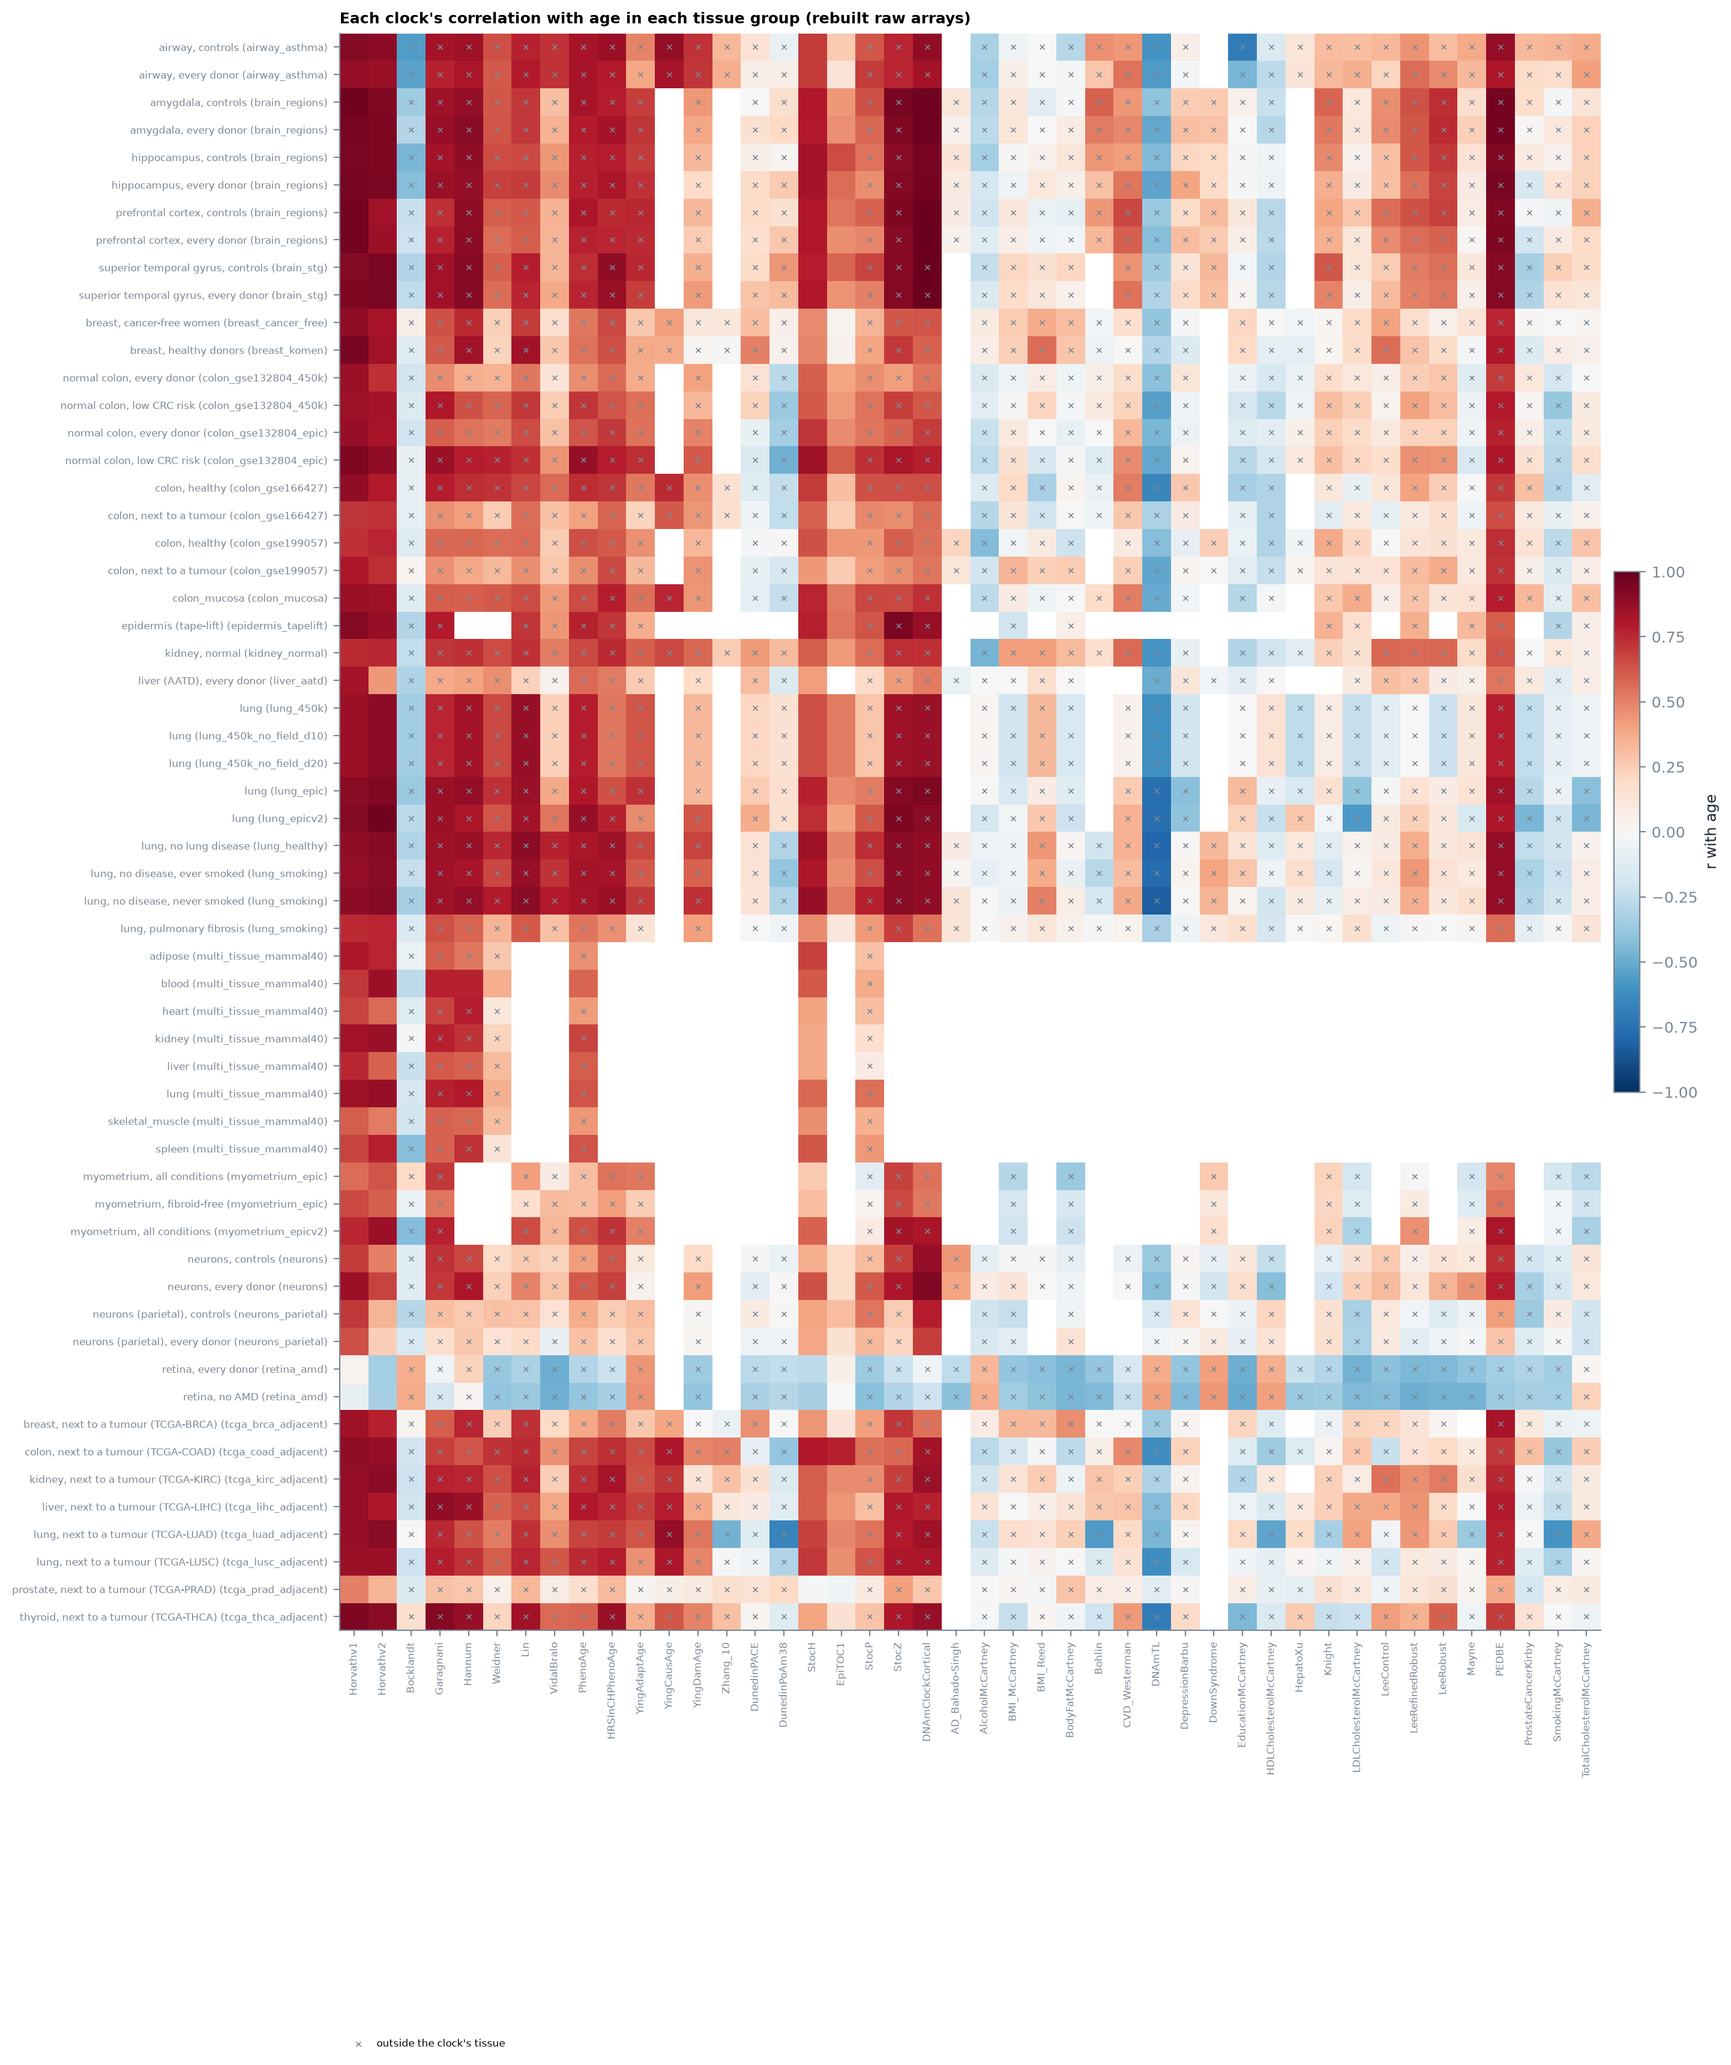
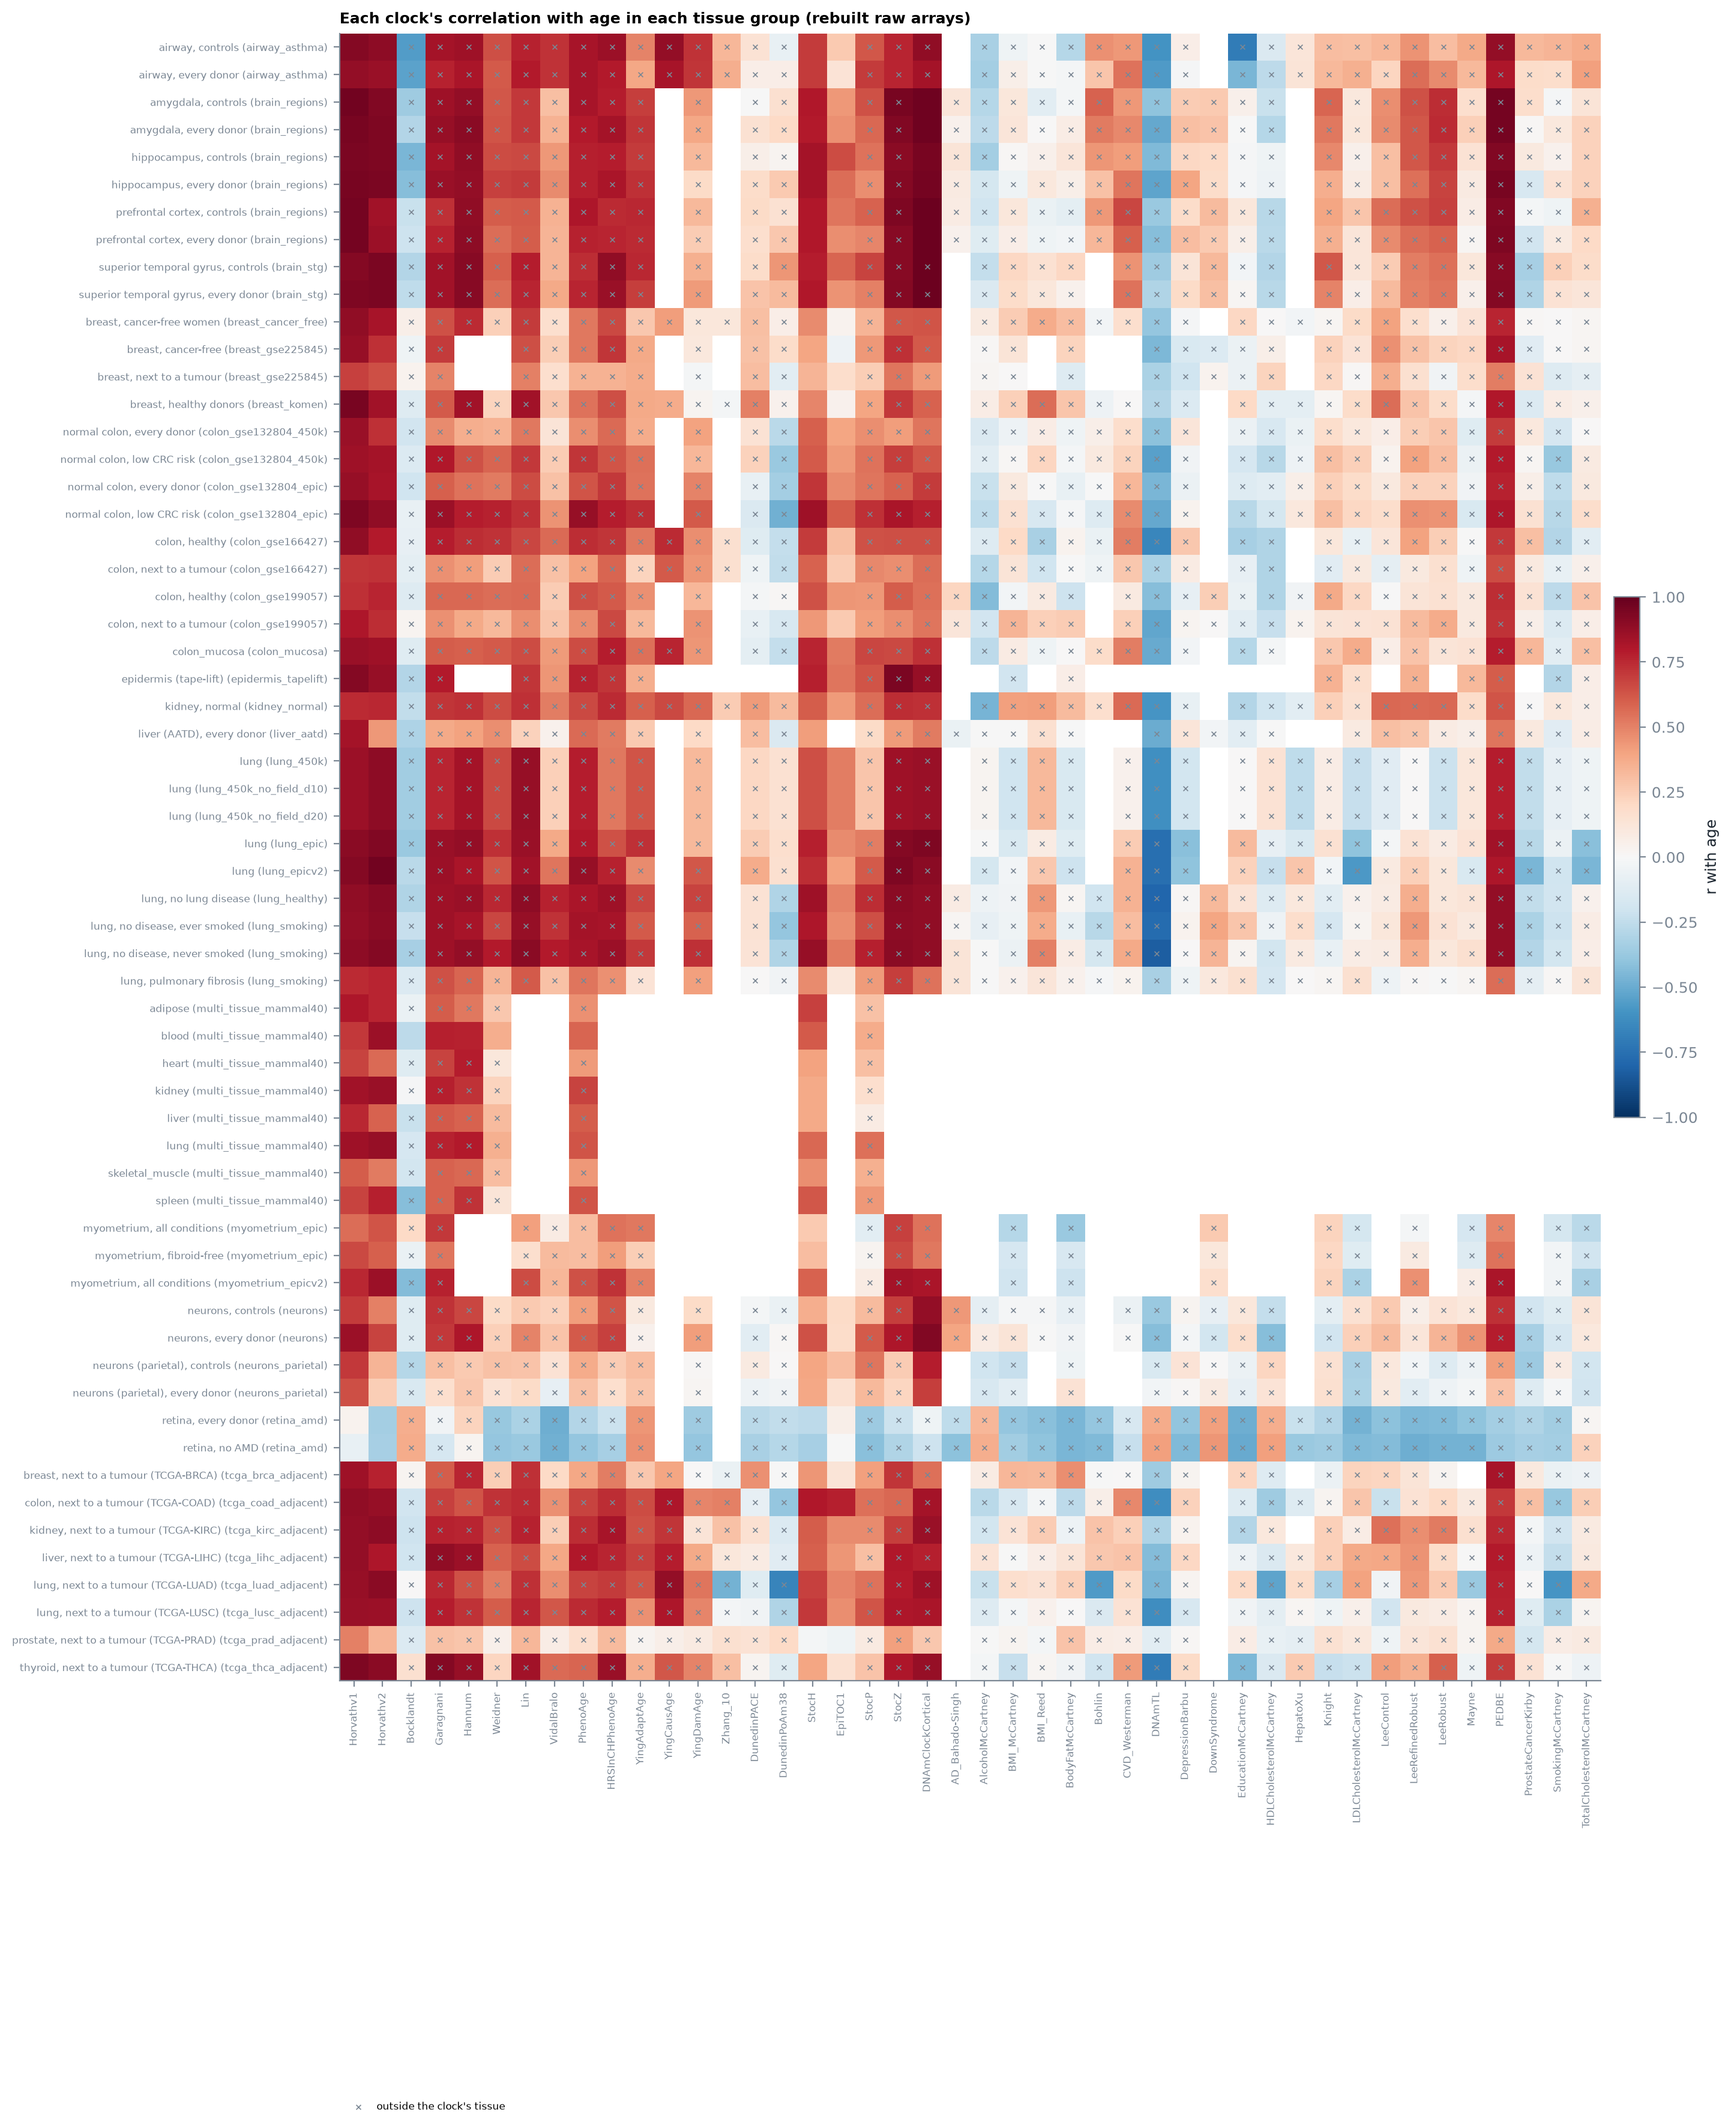
Paper and forest with the 10 new series; clock counts over 57 groups (R189)
Seat: entropy-age/lead

diff --git a/scripts/forest_series.py b/scripts/forest_series.py
@@ -32,6 +32,17 @@ SERIES_INFO = {  # name -> (species, platform, processing)
     "myometrium_epic": ("human", "EPIC", "rebuilt"),
     "myometrium_epicv2": ("human", "EPIC v2", "rebuilt"),
     "multi_tissue_mammal40": ("human", "mammalian 40k", "rebuilt"),
+    "neurons_parietal": ("human", "EPIC", "rebuilt"),
+    "brain_stg": ("human", "EPIC", "rebuilt"),
+    "retina_amd": ("human", "EPIC", "rebuilt"),
+    "colon_gse132804_epic": ("human", "EPIC", "rebuilt"),
+    "colon_gse132804_450k": ("human", "450k", "rebuilt"),
+    "colon_gse199057": ("human", "EPIC", "rebuilt"),
+    "colon_gse166427": ("human", "450k", "rebuilt"),
+    "breast_gse225845": ("human", "EPIC", "rebuilt"),
+    "epidermis_tapelift": ("human", "EPIC v2", "rebuilt"),
+    "liver_aatd": ("human", "EPIC", "rebuilt"),
+    "airway_asthma": ("human", "450k", "rebuilt"),
     "mouse_hearts": ("mouse", "MM285", "rebuilt"),
     "mouse_liver_field": ("mouse", "MM285", "rebuilt"),
     "mouse_bxd_liver_control": ("mouse", "mammalian 40k", "rebuilt"),
@@ -44,6 +55,11 @@ SKIP_GROUPS = {
     "prefrontal cortex, controls",
     "amygdala, controls",
     "hippocampus, controls",
+    "neurons (parietal), controls",
+    "superior temporal gyrus, controls",
+    "retina, no AMD",
+    "normal colon, low CRC risk",
+    "airway, controls",
 }  # subsets of a row
 
 

diff --git a/manuscript/paper.md b/manuscript/paper.md
@@ -200,8 +200,8 @@ island × young-level matching in (a) Hannum blood and (b) Jaffe cortex. Grey: m
 
 ### The shield across tissues, platforms and species
 
-**The shield is present in most tissues and species tested.** Across 42 independent cohort-tissue series on one
-measure (23 human, 19 mouse; Supplementary Fig. S22), the housekeeping gap was negative in 33; 22 intervals over
+**The shield is present in most tissues and species tested.** Across 56 independent cohort-tissue series on one
+measure (37 human, 19 mouse; Supplementary Fig. S22), the housekeeping gap was negative in 45; 27 intervals over
 donors or animals lie below zero and none above it. An apparent
 ordering by cell turnover in mouse cannot be separated from array chip.
 
@@ -242,6 +242,18 @@ showed no gap: in 62 women aged 29 to 52 on the EPIC array (GSE296589; fibroid-f
 condition held) the housekeeping gap was +0.00 SD (−0.05 to +0.03), and +0.03 (−0.02 to +0.05) in the 30 fibroid-free
 women alone; this narrow and young age range gives slopes over 23 years only. The study's 30 women on EPIC v2 did not
 resolve the gap (−0.01, −0.08 to +0.07).
+
+Ten further human series, found by a repository search and rebuilt from raw files, extend the comparison. Dividing
+tissues carried the gap: normal colon of 206 and 103 people (GSE132804, EPIC and 450k parts, after leaving out 25
+arrays that are the same physical arrays as GSE101764's) gave −0.17 (−0.27 to −0.09) and −0.14 (−0.33 to −0.05),
+epidermis sampled by tape-lift −0.13 (−0.26 to −0.03; 40 of 119 arrays passed detection) and liver biopsies of 86
+adults with alpha-1 antitrypsin deficiency −0.07 (−0.13 to −0.03, fibrosis stage held). Two smaller colon series leaned
+the same way without resolving it (GSE199057, −0.09 in healthy colon and next to a tumour; GSE166427, −0.06 healthy and
+−0.01 next to a tumour), and cancer-free breast of 231 women gave −0.05 (−0.17 to +0.03), as weak as the other breast
+cohorts; breast next to a tumour did not resolve, with chip and age entangled in that series. Tissues of slow or no
+turnover showed no gap: parietal NeuN+ nuclei of 84 donors −0.00 (−0.06 to +0.05), superior temporal gyrus of 88
+donors −0.03 (−0.06 to −0.00), retina of 106 donors +0.01 (−0.04 to +0.05) and airway epithelium of 115 adults −0.00
+(−0.05 to +0.03).
 
 On the mammalian array, relative entropy separated 11 tissues of the same male C57BL/6 mice sharply (GSE279437;
 Huang et al. 2025). The mice were the untreated young and aged controls of an exenatide and rapamycin study, compared as aged minus young because GEO gives no numeric ages. The housekeeping gap was negative in the three renewing tissues and in kidney and liver (−0.05 to −0.19 SD) and
@@ -650,10 +662,9 @@ for their age in non-brain tissues; matched non-housekeeping promoters and match
 association, the links in neurons are inconsistent, and pace-of-ageing clocks do not show it (Fig. 10, Fig. 11).**
 
 *Every clock on every rebuilt series.* We scored every clock in the biolearn gallery that keeps at least 90 % of its
-weight measured on every rebuilt series with donor ages (40 tissue groups, 44 clocks; scored on the clock track, without the design-flag mask; clocks taken outside the tissue
+weight measured on every rebuilt series with donor ages (60 tissue groups, 44 clocks; scored on the clock track, without the design-flag mask; clocks taken outside the tissue
 they were trained on kept as negative controls; Supplementary Fig. S23). The pan-tissue clock of Horvath tracked age in
-every group (median r 0.86, up to 0.96; median error 5.2 years; lowest 0.50 in prostate next to a tumour and 0.56 in
-myometrium of women aged 29 to 52). Blood clocks taken into solid tissues still ranked donors by age (PhenoAge median r
+nearly every group (median r 0.86, up to 0.96; median error 5.2 years) and failed only in retina (r −0.07 and +0.03). Blood clocks taken into solid tissues still ranked donors by age (PhenoAge median r
 0.68, Hannum 0.80) but missed their age by a median 24 and 8 years. Once age was removed, the valid clocks of a group
 agreed only partly on who was ageing fast: the median correlation between their accelerations was 0.48 (0.84 in heart;
 0.04 in liver).
@@ -675,7 +686,7 @@ no clock and no generation added the shield: given any clock and B, F had odds r
 1.04-2.42; Ying adaptation 1.85, 1.03-3.71), as expected by chance among this many exploratory tests; the
 pre-specified PhenoAge did not (1.12, 0.81-1.59).
 
-*Across tissues.* In 37 rebuilt tissue groups with ages (the series above, the TCGA tissues next to tumours and the
+*Across tissues.* In 57 rebuilt tissue groups with ages from 28 studies (the series above, the TCGA tissues next to tumours and the
 mammalian-array human tissues), we scored each person's drift at look-alike promoters (B) and shield share (F)
 against everyone else in the group, with every CpG any mitotic clock reads left out of both, and correlated them,
 within each group, with each clock's acceleration (its prediction minus the group's age trend). Six mitotic clocks were
@@ -683,18 +694,18 @@ scored: epiTOC1 (Yang et al. 2016), epiTOC2 and its successor epiTOC3 (Teschendo
 stem-cell divisions from promoter CpGs that gain methylation; epiCMIT (Duran-Ferrer et al. 2020); RepliTali (Endicott
 et al. 2022), a replicative-age model measured only on the EPIC array; and HypoClock (Zhou, Dinh et al. 2018), the mean
 methylation of 678 solo-WCGW CpGs in partially methylated domains, which falls with division and shares no CpG with
-the epiTOC clocks. Outside the brain every one went with a stronger shield: epiTOC1 in all 18 groups where it passed
-coverage (14 studies; median r −0.50, from −0.10 in normal kidney to −0.88 in prostate next to a tumour), epiTOC2 in
-20 of 21 (−0.50), epiTOC3 in 20 of 21 (−0.44), epiCMIT in 19 of 20 (−0.45), RepliTali in all 7 (−0.48; lung and
-myometrium from three studies), and HypoClock, read in its own direction, in 15 of 18 (+0.31). Medians taken per study
-were the same (−0.44 to −0.50; HypoClock +0.29). In bulk brain regions the links were weak (−0.18 to +0.03 for the
-epiTOC clocks). Sorted cortical neurons, which do not divide, gave opposite answers in the two series available. In
+the epiTOC clocks. Outside neural tissue every one went with a stronger shield: epiTOC1 in all 31 groups where it passed
+coverage (20 studies; median r −0.50, from −0.10 in normal kidney to −0.88 in prostate next to a tumour), epiTOC2 in
+33 of 34 (−0.51), epiTOC3 in 34 of 35 (−0.44), epiCMIT in 31 of 32 (−0.45), RepliTali in all 14 (−0.42; seven
+studies), and HypoClock, read in its own direction, in 24 of 27 (+0.31). Medians taken per study were similar (−0.42 to
+−0.50; RepliTali −0.33; HypoClock +0.29). In bulk brain regions and retina the links were weaker and mixed (−0.38 to
++0.16 for the epiTOC clocks). Sorted cortical neurons, which do not divide, gave opposite answers in the two series available. In
 frontal-cortex NeuN+ nuclei (GSE112179) the epiTOC clocks reversed (+0.25 to +0.50) and so did HypoClock in the 82-donor
 group (−0.31); RepliTali did not (−0.21 and −0.43), and epiCMIT reversed in one group only (+0.26 and −0.02). In
 parietal NeuN+ nuclei of 84 older donors (GSE267937, aged 53 to 95, half with Parkinson's disease) none reversed:
 epiTOC1 −0.33 (−0.17 in the 38 controls), epiCMIT −0.44, RepliTali −0.40. Neurons therefore show no consistent link. Clocks of other kinds went the same way more weakly:
-Hannum (median −0.14, negative in 74 % of 34 groups) and PhenoAge (−0.18, 81 % of 37). Horvath's pan-tissue clock
-(−0.01, 54 % of 37) and DunedinPACE (−0.05, 62 % of 26) showed no consistent link, and trait predictors used as
+Hannum (median −0.20 outside neural tissue, negative in 75 % of 51 groups) and PhenoAge (−0.21, 82 % of 57). Horvath's
+pan-tissue clock (−0.10, 65 % of 57) and DunedinPACE (−0.07, 76 % of 45) showed weaker links, and trait predictors used as
 negative controls (body-mass index, smoking and the like) sat at −0.01. These are within-group associations of
 age-adjusted scores; where a series has a pooled and a stratified group, both are shown. Three checks address whether a
 shared array effect, or drift in general, could move a clock and F together. All use one primary group per study
@@ -720,7 +731,7 @@ clock track (protocol change 4); drift on the standard rebuild.
 
 ![Figure 11](../docs/figures/clock_drift.png)
 
-**Figure 11. What clocks read of drift, tissue by tissue.** Each dot is one clock in one rebuilt tissue group (37
+**Figure 11. What clocks read of drift, tissue by tissue.** Each dot is one clock in one rebuilt tissue group (57
 groups): the correlation of the clock's acceleration (prediction minus the age trend in the group) with each person's
 shield share F (a) and drift at look-alike promoters B (b), both scored against everyone else in the group; clocks
 coloured by generation, bars at the median. How to read: a dot below zero in a means the clock calls people with a

diff --git a/docs/CHANGELOG.md b/docs/CHANGELOG.md
@@ -4,6 +4,7 @@ Newest first.
 
 ## Unreleased
 
+- 2026-11-26: R189 clocks with every series (57 groups, 28 studies): outside neural tissue epiTOC1 31/31 (-0.50), epiTOC2 33/34, epiTOC3 34/35, epiCMIT 31/32, RepliTali 14/14 (7 studies), HypoClock 24/27; atlas 60 groups, Horvath fails only in retina. Forest extended to 56 series (11 new configs; nested subsets skipped): 45 negative, 27 resolved below zero, none above. Paper: new-tissues paragraph, forest counts, clock counts, Fig. 11 caption.
 - 2026-11-26: R185 breast GSE225845: cancer-free -0.05 (-0.17 to +0.03, chip held), as weak as the earlier breast cohorts; tumour-adjacent unresolved (-0.30 without chip, +0.46 with, wide intervals; chip and age entangled). Colon GSE132804 EPIC -0.17 (-0.27 to -0.09).
 - 2026-11-26: Paper clock claims rewritten after clock_drift_classes and Codex review 6: mitotic clocks track overall per-person deviation (housekeeping promoters, other promoters and non-promoter CpGs alike; epiTOC2 partial r -0.49/-0.42/-0.49), the shield's own margin small and uncertain (gene-balanced F-ratio margin 0.09 for epiTOC1/2, beyond placebo p95 in 9-11 of ~20 groups; absolute-deviation contrast -0.019, -0.052 to +0.013). Numbers to refresh after the review-6 fixes (background disjoint across draws, multi-gene cap).
 - 2026-11-26: Codex review 5 code items 3-7 in clock_drift_controls (gene-balanced pairs, DunedinPACE preprocessing probes excluded from the panel, group registry before predictions, scaled-design partial r, physical-array manifest in export_clock_cpgs.py) and new analysis `clock_drift_classes` (job 6657146): housekeeping, other promoter and matched non-promoter CpGs scored against one background; median partial r for epiTOC2 -0.49 / -0.42 / -0.49; other promoters minus non-promoters +0.045 (0.017 to 0.072), housekeeping minus other promoters -0.019 (-0.052 to 0.013). The mitotic-clock link is not specific to promoters. On the F ratio with gene balancing the housekeeping margin is 0.04-0.09 (beyond the placebo p95 in about half the groups). Paper not yet updated (Codex review 6 first).
